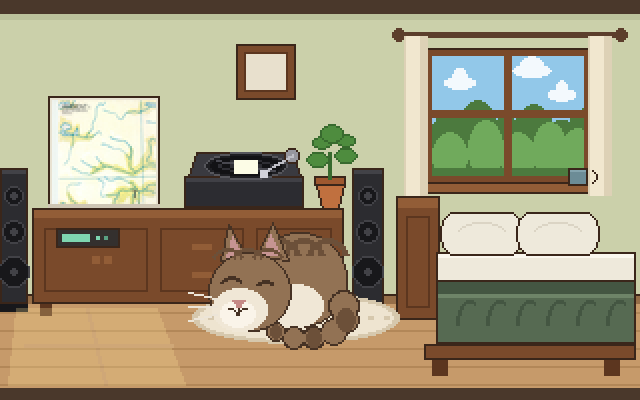
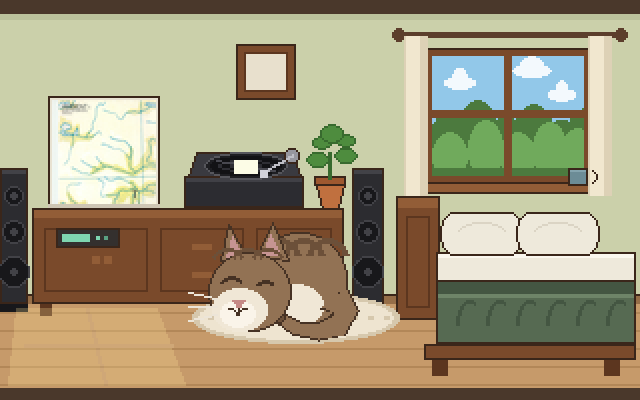
Art: rebuild the cat's tail as a single tapered stroke
Overlapping circles left scalloped bumps along the underside that read as
six feet. A smooth silhouette fixes it; do not rebuild it from circles.

Changed region(s): [[0.4062, 0.72, 0.5625, 0.87]]

diff --git a/tools/make_assets.py b/tools/make_assets.py
@@ -14,6 +14,7 @@ Coordinate ranges are half-open throughout, matching the brief: `rect(24, 48,
 from __future__ import annotations
 
 import json
+import math
 import sys
 from pathlib import Path
 
@@ -86,6 +87,30 @@ AMP_FACE = (52, 48, 46)
 AMP_GLOW = (126, 214, 176)
 
 SUNPATCH = (255, 226, 150, 64)
+
+
+def tapered_stroke(points: list[tuple[float, float, float]]) -> list[tuple[float, float]]:
+    """A smooth outline around a centre-line that changes width along its length.
+
+    Used for the cat's tail. Built from a single polygon rather than a chain of
+    overlapping circles: the circles left scalloped bumps along the silhouette,
+    and a bumpy row along the bottom of a cat reads as toes.
+    """
+    left: list[tuple[float, float]] = []
+    right: list[tuple[float, float]] = []
+    for i, (x, y, half) in enumerate(points):
+        if i == 0:
+            dx, dy = points[1][0] - x, points[1][1] - y
+        elif i == len(points) - 1:
+            dx, dy = x - points[-2][0], y - points[-2][1]
+        else:
+            dx = points[i + 1][0] - points[i - 1][0]
+            dy = points[i + 1][1] - points[i - 1][1]
+        length = math.hypot(dx, dy) or 1.0
+        nx, ny = -dy / length * half, dx / length * half
+        left.append((x + nx, y + ny))
+        right.append((x - nx, y - ny))
+    return left + right[::-1]
 
 
 class Art:
@@ -251,7 +276,6 @@ def draw_speaker(a: Art, x0: int, x1: int, cone_offset: int = 0) -> None:
 def draw_turntable(a: Art, record_angle: float, label_colour) -> None:
     """The one deliberate exception to the flat camera: a shallow top surface so
     the platter and tonearm stay readable."""
-    import math
 
     # Plinth, then a shallow top face carrying the platter.
     a.rect(92, 88, 152, 104, (44, 44, 49))
@@ -339,22 +363,31 @@ def draw_cat(a: Art, breath: int = 0, ear_flick: int = 0, tail: int = 0) -> None
     # Chest sits low and to the right of the head, never touching the face.
     a.ellipse(134, 142, 162, 164, CAT_CREAM)
 
-    # Tail in front of the body, curling round the base. Drawn after the body
-    # on purpose: behind it, the body swallowed it completely.
+    # Tail: wrapped around the cat's right flank, not stretched along the front.
     #
-    # Outlined as one silhouette rather than per-segment. Outlining each segment
-    # made it read as a row of separate balls instead of a tail.
-    beads = (
-        (172, 153, 7), (173, 160, 6), (167, 166, 6),
-        (157, 169, 5), (147, 169, 5), (138, 166, 4),
+    # Three things here are corrections, not choices. It is drawn after the body
+    # because behind it the body swallowed it. It is outlined as one silhouette
+    # because outlining each segment made it a row of separate balls. And it is
+    # kept off the body's underside, tapered, and left unstriped because an
+    # even row of same-sized striped blobs across the bottom read unmistakably
+    # as feet.
+    spine = [
+        (167, 149, 7.0), (173, 156, 6.0), (169, 163, 5.0),
+        (159, 166, 4.0), (148, 164, 3.0), (140, 159, 2.2),
+    ]
+    spine = [(x, y + (tail if i >= 3 else 0), w) for i, (x, y, w) in enumerate(spine)]
+
+    outline = tapered_stroke([(x, y, w + 1) for x, y, w in spine])
+    a.poly(outline, CAT_LINE)
+    a.poly(tapered_stroke(spine), CAT_FUR)
+
+    # Rounded tip, so the stroke does not end in a flat cut.
+    tipx, tipy, tipw = spine[-1]
+    a.ellipse(
+        int(tipx - tipw - 1), int(tipy - tipw - 1),
+        int(tipx + tipw + 1), int(tipy + tipw + 1), CAT_LINE,
     )
-    shifted = [(tx, ty + (tail if i >= 2 else 0), r) for i, (tx, ty, r) in enumerate(beads)]
-    for tx, ty, r in shifted:
-        a.ellipse(tx - r - 1, ty - r - 1, tx + r + 1, ty + r + 1, CAT_LINE)
-    for tx, ty, r in shifted:
-        a.ellipse(tx - r, ty - r, tx + r, ty + r, CAT_FUR)
-    for tx, ty, r in (shifted[1], shifted[3], shifted[5]):
-        a.ellipse(tx - r + 1, ty - r, tx + r - 1, ty + r, CAT_DARK)
+    a.ellipse(int(tipx - tipw), int(tipy - tipw), int(tipx + tipw), int(tipy + tipw), CAT_DARK)
 
     # Ears, drawn before the head so the head outline cuts their bases cleanly.
     a.poly([(110, 130), (114 + ear_flick, 112 - ear_flick), (124, 130)], CAT_FUR, CAT_LINE)

diff --git a/docs/art-brief.md b/docs/art-brief.md
@@ -280,13 +280,19 @@ forward from that approval:
   if it gains detail, contrast or pattern.
 - **Speaker, record and display animation stays restrained.** These are ambient
   movement, not the show. The cat carries the personality.
-- **Do not redesign the cat or its tail again** unless testing the complete set
-  of animations reveals a real problem. Both went through several revisions to
-  get here: the head merged into the body and read as a featureless lump, and
-  the tail first vanished behind the body and then read as a row of separate
-  balls. The current construction — a compact cream face well clear of the
-  body's cream chest, and a tail drawn in front of the body outlined as a single
-  silhouette — is the fix for those, not an arbitrary arrangement.
+- **Do not redesign the cat or its tail again** unless testing reveals a real
+  problem. Both went through several revisions to get here, and the current
+  construction is the fix for specific failures rather than an arbitrary
+  arrangement:
+  - The **head** is a clear circle with a compact cream face kept well clear of
+    the body's cream chest. When the two pale areas met, the cat lost its face
+    and read as one lump with ears stuck in the middle.
+  - The **tail** is a single tapered polygon, drawn in front of the body. Behind
+    the body it vanished entirely. Built from overlapping circles it read as a
+    row of separate balls — and once those circles sat low and evenly spaced
+    along the cat's underside, they read unmistakably as **six feet**, which is
+    what a fresh pair of eyes saw first. A smooth silhouette with no scalloped
+    bumps is what fixes that; do not rebuild it from circles.
 
 ### No progress decoration at all
 
